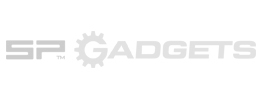
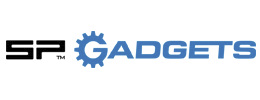
сделал hover на кнопках, иконках и некоторых илементах

Changed region(s): [[0.0, 0.3, 0.9846, 0.69]]

diff --git a/css/style.css b/css/style.css
@@ -103,20 +103,35 @@
 
     button {
       display: inline-block;
-      margin-bottom: 30px;
-      padding: 13px 19px;
-      font: inherit;
+      width: font: inherit;
       text-align: center;
       color: black;
       vertical-align: middle;
       font-weight: bold;
-      background-color: #f4d361;
+      font-size: 24px;
       border: none;
-      text-transform: uppercase
+      text-transform: uppercase;
+      position: relative;
+      background: transparent;
+      letter-spacing: 4px;
     }
 
-    .button:hover {
+    .button::before {
+      content: "";
+      position: absolute;
+      width: 220px;
+      height: 10px;
+      background-color: #f0c52e;
+      z-index: -1;
+      left: -10px;
+      top: 8px;
+    }
+
+    .button:hover::before {
+      width: 220px;
+      height: 40px;
       background-color: #f4d361;
+      top: -7px;
     }
 
     .button:focus {
@@ -126,6 +141,56 @@
     .button:active {
       background-color: black;
       color: #f4d361;
+    }
+
+    .about-button::before,.write-link::before {
+      content: "";
+      position: absolute;
+      width: 320px;
+      height: 10px;
+      background-color: #f0c52e;
+      z-index: -1;
+      left: -10px;
+      top: 9px;
+    }
+
+    .about-button:hover::before, .write-link:hover::before {
+      width: 320px;
+      height: 40px;
+      background-color: #f4d361;
+      top: -7px;
+    }
+
+    .write-link{
+      padding-left: 30px;
+    }
+
+    .button-catalog{
+      position: relative;
+      z-index: 4;
+      font-size: 24px;
+      font-weight: bold;
+
+
+    }
+
+    .button-catalog::before{
+      content: "";
+      position: absolute;
+      width: 200px;
+      height: 10px;
+      z-index: -1;
+      left: 80px;
+      bottom: 10px;
+      background-color: #f0c52e;
+    }
+
+    .button-catalog:hover::before{
+      width: 200px;
+      height: 40px;
+      background-color: #f0c52e;
+      top: -7px;
+
     }
 
     .catalog-content a {
@@ -194,6 +259,14 @@
       margin-top: -20px;
       margin-left: 60px;
       margin-bottom: 35px;
+    }
+
+    .main-header-logo:hover {
+      opacity: 0.6;
+    }
+
+    .main-header-logo:active {
+      opacity: 0.3;
     }
 
     /*--------поиск, войти, сравнить, корзина--------*/
@@ -540,6 +613,15 @@
       background-color: #f7e296;
     }
 
+    .product-back:hover {
+      cursor: pointer;
+      background-color: #f0c52e;
+    }
+
+    .product-back:active {
+      opacity: 0.3;
+    }
+
     /*сервисный слайд*/
 
     .service-container {
@@ -631,9 +713,18 @@
       text-align: left;
       padding-left 25px;
       margin-bottom: 35px;
-      background-color: #f4d361;
     }
 
+    /*.service-slide-controls label::before{
+      content: "";
+      position: absolute;
+      width: 220px;
+      height: 10px;
+      background-color: #f0c52e;
+      z-index: -1;
+
+    }
+*/
     .service-slide-controls .activ::before {}
 
     #delivery:checked~.service-slide-colums #slide-serv1, #warranty:checked~.service-slide-colums #slide-serv2, #credit:checked~.service-slide-colums #slide-serv3 {
@@ -676,6 +767,14 @@
       justify-content: space-evenly;
       list-style: none;
       min-height: 55px;
+    }
+
+    .company-logo-img li {
+      opacity: 0.2;
+    }
+
+    .company-logo-img li:hover {
+      opacity: 1;
     }
 
     .index-columns {
@@ -996,13 +1095,14 @@
       opacity: 0.7;
     }
 
-    .button-hover{
+    .button-hover {
       display: flex;
       flex-direction: column;
       padding-top: 180px;
     }
 
-    .catalog-item-hover a{
+    .catalog-item-hover a {
+
       text-align: center;
     }
 
@@ -1268,7 +1368,7 @@
       margin: 0;
       padding: 0;
       border: none;
-      background-color: white;
+      background: transparent;
     }
 
     @keyframes bounce {

diff --git a/catalog.html b/catalog.html
@@ -154,8 +154,8 @@
               </div>
               <div class="catalog-item-hover">
                 <div class="button-hover">
-                  <a class="button" href="#">В корзину</a>
-                  <a class="button" href="#">Добавить к сравнению</a>
+                  <a class="button-catalog" href="#">В корзину</a>
+                  <a class="button-compare" href="#">Добавить к сравнению</a>
                 </div>
               </div>
             </li>
@@ -171,8 +171,8 @@
               </div>
               <div class="catalog-item-hover">
                 <div class="button-hover">
-                  <a class="button" href="#">В корзину</a>
-                  <a class="button" href="#">Добавить к сравнению</a>
+                  <a class="button-catalog" href="#">В корзину</a>
+                  <a class="button-compare" href="#">Добавить к сравнению</a>
                 </div>
               </div>
             </li>
@@ -188,8 +188,8 @@
               </div>
               <div class="catalog-item-hover">
                 <div class="button-hover">
-                  <a class="button" href="#">В корзину</a>
-                  <a class="button" href="#">Добавить к сравнению</a>
+                  <a class="button-catalog" href="#">В корзину</a>
+                  <a class="button-compare" href="#">Добавить к сравнению</a>
                 </div>
               </div>
             </li>
@@ -205,8 +205,8 @@
               </div>
               <div class="catalog-item-hover">
                 <div class="button-hover">
-                  <a class="button" href="#">В корзину</a>
-                  <a class="button" href="#">Добавить к сравнению</a>
+                  <a class="button-catalog" href="#">В корзину</a>
+                  <a class="button-compare" href="#">Добавить к сравнению</a>
                 </div>
               </div>
             </li>

diff --git a/index.html b/index.html
@@ -253,7 +253,7 @@
           <li><b>Автотрейдинг</b></li>
           <li><b>ЖелДорЭкспедиция</b></li>
         </ul>
-        <button class="button">Подробнее о нас</button>
+        <button class="about-button">Подробнее о нас</button>
       </section>
       <section class="contacts">
         <h2>Контакты</h2>
